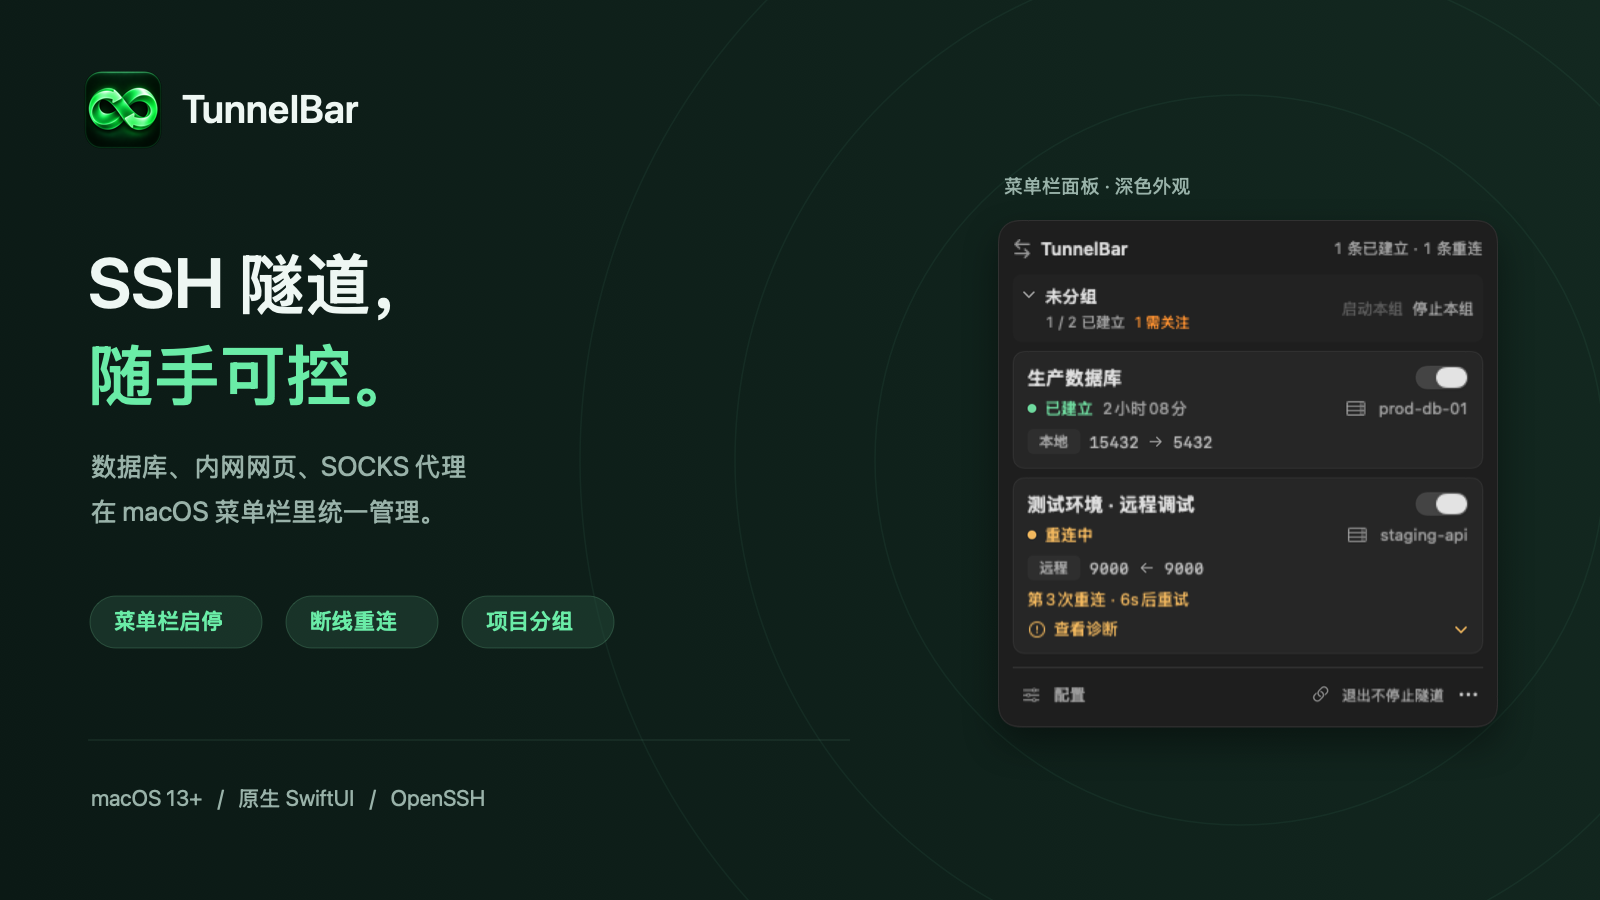
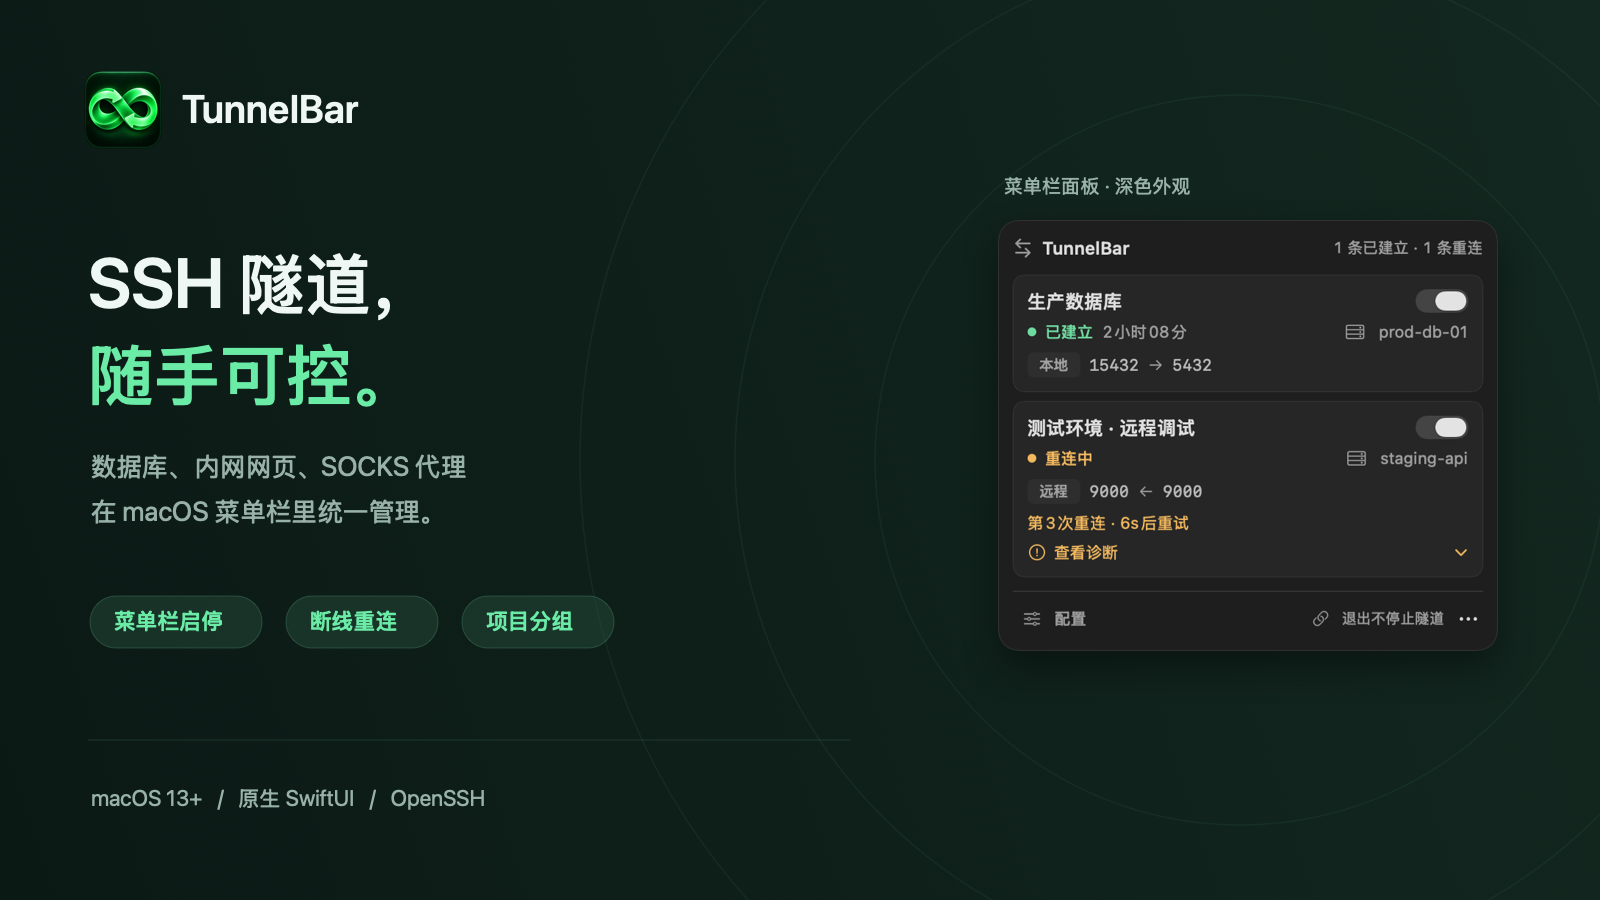
fix: 修正停止诊断并优化无分组展示
正常停止或取消重连后隐藏残留日志诊断；没有自建分组时平铺隧道，忽略历史折叠状态。增加 --no-autostart，让更新启动保留已有连接与停止状态，并同步回归测试、使用指南和首页截图。

diff --git a/Tests/RegressionTests.swift b/Tests/RegressionTests.swift
@@ -51,8 +51,8 @@ final class TestContext {
     var runDir: URL { url.deletingLastPathComponent().appendingPathComponent("run") }
     func pidURL(_ id: String = "probe") -> URL { runDir.appendingPathComponent("\(id).pid") }
 
-    func manager() -> TunnelManager {
-        let manager = TunnelManager(configURL: url, sshExecutable: executable)
+    func manager(autoStartOnLaunch: Bool = true) -> TunnelManager {
+        let manager = TunnelManager(configURL: url, sshExecutable: executable, autoStartOnLaunch: autoStartOnLaunch)
         managers.append(manager)
         pump(0.35)
         return manager
@@ -133,6 +133,8 @@ struct RegressionTests {
             return
         }
 
+        try manualStopDiagnostics(root: root, executable: executable)
+        try updateRelaunch(root: root, executable: executable)
         try configFailures(root: root, executable: executable)
         try migration(root: root, executable: executable)
         try privateStorage(root: root, executable: executable)
@@ -604,6 +606,71 @@ struct RegressionTests {
         print("PASS owning app exits without killing L/R/D tunnels; next startup restores the same processes")
     }
 
+    static func manualStopDiagnostics(root: URL, executable: URL) throws {
+        for adopt in [false, true] {
+            let context = try TestContext(root: root, executable: executable, name: "manual-stop-\(adopt)", allTypes: true)
+            defer { context.cleanup() }
+            let owner = context.manager()
+            for tunnel in context.config.tunnels { owner.start(tunnel.id) }
+            try eventually("L/R/D tunnels must establish before stopping") {
+                owner.statuses.allSatisfy { $0.state == .running }
+            }
+            let pids = try context.config.tunnels.map { try context.pid($0.id) }
+            if adopt { owner.prepareForAppExit() }
+            let manager = adopt ? context.manager() : owner
+            try expect(manager.statuses.allSatisfy { $0.state == .running }, "Adoption must retain established connections")
+
+            for tunnel in context.config.tunnels {
+                let log = context.runDir.appendingPathComponent("\(tunnel.id).log")
+                try expect(!SSHLogReader.tail(log).isEmpty, "Fixture must leave real connection diagnostics on disk")
+                manager.toggle(tunnel.id)
+                try expect(manager.statuses.first { $0.id == tunnel.id }?.state == .stopped && !manager.isOn(tunnel.id),
+                           "Turning off a tunnel must stop it")
+                try expect(manager.errorText(tunnel.id) == nil && manager.diagnosticText(tunnel.id) == nil,
+                           "Manually stopped tunnels must not expose normal SSH logs as an error")
+            }
+            try eventually("Manual stop must terminate every managed process") { pids.allSatisfy { kill($0, 0) != 0 } }
+            pump(0.3)
+            try expect(manager.statuses.allSatisfy { $0.state == .stopped && manager.diagnosticText($0.id) == nil },
+                       "Late exit callbacks must not restore diagnostics after manual stop")
+
+            manager.prepareForAppExit()
+            let relaunched = context.manager()
+            try expect(relaunched.statuses.allSatisfy { $0.state == .stopped && relaunched.diagnosticText($0.id) == nil },
+                       "Relaunch must not surface retained logs for stopped tunnels")
+        }
+        print("PASS manual stop hides retained diagnostics for owned/adopted L/R/D tunnels, including after relaunch")
+    }
+
+    static func updateRelaunch(root: URL, executable: URL) throws {
+        let context = try TestContext(root: root, executable: executable, name: "update-relaunch", autoStart: true, allTypes: true)
+        defer { context.cleanup() }
+        let originalConfig = try Data(contentsOf: context.url)
+        let owner = context.manager(autoStartOnLaunch: false)
+        try expect(owner.statuses.allSatisfy { $0.state == .stopped }, "Update launch must not start stopped tunnels")
+        owner.start("probe")
+        try eventually("The retained connection must establish") { owner.statuses[0].state == .running }
+        let pid = try context.pid()
+        owner.prepareForAppExit()
+
+        let updated = context.manager(autoStartOnLaunch: false)
+        let adoptedPID = try context.pid()
+        try expect(adoptedPID == pid && kill(pid, 0) == 0 && updated.statuses[0].state == .running,
+                   "Update launch must adopt the same live process")
+        try expect(updated.statuses.dropFirst().allSatisfy { $0.state == .stopped && !updated.isOn($0.id) },
+                   "Update launch must preserve stopped tunnels even when autoStart is enabled")
+        let retainedConfig = try Data(contentsOf: context.url)
+        try expect(retainedConfig == originalConfig && updated.current == context.config,
+                   "Skipping auto-start must not alter saved or in-memory settings")
+
+        updated.prepareForAppExit()
+        let normalLaunch = context.manager()
+        try eventually("The next normal launch must respect saved autoStart settings") {
+            normalLaunch.statuses.allSatisfy { $0.state == .running }
+        }
+        print("PASS update launch preserves running/stopped tunnels and config; normal relaunch still auto-starts")
+    }
+
     static func connectionStates(root: URL, executable: URL) throws {
         for mode in ["delayed", "remote-delayed", "auth", "network", "port", "ready-warning"] {
             let context = try TestContext(root: root, executable: executable, name: "state-\(mode)")
@@ -624,13 +691,23 @@ struct RegressionTests {
             } else if mode == "delayed" || mode == "remote-delayed" {
                 pump(0.35)
                 try expect(manager.statuses[0].state == .connecting, "Authentication/session entry must not bypass forwarding confirmation")
+                if mode == "remote-delayed" {
+                    try expect(manager.diagnosticText("probe")?.contains("Entering interactive session.") == true,
+                               "Pending remote confirmation must retain current connection diagnostics")
+                }
                 try eventually("Complete forwarding evidence must establish the tunnel") { manager.statuses[0].state == .running }
             } else if mode == "network" {
                 try eventually("Network failure must retry") { manager.statuses[0].state == .reconnecting }
                 try expect(manager.isOn("probe"), "Transient error must retain user intent")
+                try expect(manager.diagnosticText("probe")?.contains("Connection timed out") == true,
+                           "Automatic retries must retain the actual failure diagnostics")
+                manager.stop("probe")
+                try expect(manager.diagnosticText("probe") == nil, "Cancelling a retry must dismiss its diagnostics")
             } else {
                 try eventually("Actionable failure must pause retries") { manager.statuses[0].state == .needsAttention }
                 try expect(!manager.isOn("probe") && manager.errorText("probe") != nil, "Actionable errors need an explanation and no infinite retry")
+                try expect(manager.diagnosticText("probe") == manager.errorText("probe"),
+                           "Actionable failures must remain visible even though their switch is off")
                 pump(1.7)
                 try expect(!FileManager.default.fileExists(atPath: context.pidURL().path), "Actionable failure respawned without user action")
                 cfg.tunnels[0].extraArgs = []

diff --git a/Tools/PanelPreview.swift b/Tools/PanelPreview.swift
@@ -53,6 +53,10 @@ struct PanelPreview {
                                     error: "ssh: connect to host staging-api.example.net port 22: Connection timed out")
         let socks = TunnelPanelItem(id: "socks", name: "开发 SOCKS 代理", nodeName: "dev-box",
                                     forwards: [ForwardSpec(type: "D", port: "1080")], state: .stopped, isOn: false)
+        let stopped = TunnelPanelItem(id: "stopped", name: "远程开发访问", nodeName: "example",
+                                      forwards: [ForwardSpec(type: "R", port: "10022", host: "127.0.0.1", rport: "22")],
+                                      state: .stopped, isOn: false,
+                                      error: "debug1: Entering interactive session.\nKilled by signal 15.")
         let long = TunnelPanelItem(id: "long", name: "示例环境 · 数据库与应用服务转发",
                                    nodeName: "example-production-bastion-01",
                                    forwards: [
@@ -69,6 +73,8 @@ struct PanelPreview {
         try render("light-multiple", items: [database, retry, socks], scheme: .light, output: output)
         try render("dark-readme", items: [database, retry], scheme: .dark, output: output)
         try render("light-readme", items: [database, retry], scheme: .light, output: output)
+        try render("dark-manual-stop", items: [example, stopped], scheme: .dark, expanded: true, output: output)
+        try render("light-manual-stop", items: [example, stopped], scheme: .light, expanded: true, output: output)
         try render("light-empty", items: [], scheme: .light, output: output)
         try render("dark-error", items: [long], scheme: .dark, expanded: true, output: output)
         let connecting = TunnelPanelItem(id: "connecting", name: "数据库访问", nodeName: "example",
@@ -96,6 +102,12 @@ struct PanelPreview {
         let groupedItems = [projectDB, projectRetry, sharedSOCKS, example]
         for scheme in [ColorScheme.light, .dark] {
             let prefix = scheme == .light ? "light" : "dark"
+            try render("\(prefix)-flat-with-saved-collapse", items: [example, stopped], scheme: scheme,
+                       collapsed: ["ungrouped"], output: output)
+            try render("\(prefix)-single-group", items: [projectDB, example], scheme: scheme,
+                       groups: [groups[0]], output: output)
+            try render("\(prefix)-empty-group-with-ungrouped", items: [example, stopped], scheme: scheme,
+                       groups: [groups[0]], output: output)
             try render("\(prefix)-groups", items: groupedItems, scheme: scheme,
                        groups: groups, collapsed: ["group:project", "ungrouped"], output: output)
             try render("\(prefix)-groups-expanded", items: groupedItems, scheme: scheme, groups: groups, output: output)

diff --git a/Sources/TunnelManager.swift b/Sources/TunnelManager.swift
@@ -55,7 +55,8 @@ final class TunnelManager: ObservableObject {
 
     /// 可注入临时配置和模拟 SSH 程序，测试不接触用户隧道。
     init(configURL: URL = TunnelManager.configURL,
-         sshExecutable: URL = URL(fileURLWithPath: "/usr/bin/ssh")) {
+         sshExecutable: URL = URL(fileURLWithPath: "/usr/bin/ssh"),
+         autoStartOnLaunch: Bool = !CommandLine.arguments.contains("--no-autostart")) {
         configStore = ConfigStore(url: configURL)
         self.sshExecutable = sshExecutable
         loadConfig()
@@ -71,8 +72,11 @@ final class TunnelManager: ObservableObject {
                 self.objectWillChange.send()
             }
         }
-        for s in statuses where s.config.autoStart && !isOn(s.id) {
-            start(s.id)
+        // 更新应用时可用 --no-autostart 保留当前连接状态；仅影响本次启动，不修改配置。
+        if autoStartOnLaunch {
+            for s in statuses where s.config.autoStart && !isOn(s.id) {
+                start(s.id)
+            }
         }
     }
 
@@ -623,8 +627,10 @@ final class TunnelManager: ObservableObject {
     }
 
     func diagnosticText(_ id: String) -> String? {
+        // 已停止的隧道仍保留 SSH 日志；普通退出输出不应重新变成错误提示。
+        guard let state = statuses.first(where: { $0.id == id })?.state,
+              state != .running, state != .stopped else { return nil }
         if let error = lastError[id] { return error }
-        guard statuses.first(where: { $0.id == id })?.state != .running else { return nil }
         let text = SSHLogReader.tail(logFileURL(id))
         return text.isEmpty ? nil : text
     }

diff --git a/Sources/TunnelPanelView.swift b/Sources/TunnelPanelView.swift
@@ -142,8 +142,10 @@ struct TunnelPanelView: View {
         VStack(spacing: 10) {
             ForEach(TunnelPanelGroup.sections(groups: groups, items: items)) { group in
                 VStack(spacing: 6) {
-                    groupHeader(group)
-                    if !collapsedGroupIDs.contains(group.id) {
+                    if !groups.isEmpty {
+                        groupHeader(group)
+                    }
+                    if groups.isEmpty || !collapsedGroupIDs.contains(group.id) {
                         if group.items.isEmpty {
                             Text("还没有隧道，可在配置中添加")
                                 .font(.system(size: 11)).foregroundStyle(.secondary)
@@ -376,7 +378,7 @@ private struct TunnelCardView: View {
                     .fixedSize(horizontal: false, vertical: true)
             }
 
-            if item.state != .running, let error = item.error, !error.isEmpty {
+            if item.state != .running, item.state != .stopped, let error = item.error, !error.isEmpty {
                 Button {
                     showsError.toggle()
                 } label: {

diff --git a/README.md b/README.md
@@ -20,7 +20,7 @@
 
 - **开关即启停**：连接状态、运行时长、节点和转发端口都在卡片上。
 - **断线自动重连**：网络恢复后继续尝试；认证失败、端口占用等问题会显示处理建议。
-- **按项目分组**：整组启动或停止，公共数据库和代理可以独立管理。
+- **按需分组**：默认直接展示隧道；创建分组后可整组启停，公共数据库和代理可以独立管理。
 - **退出仍保持连接**：重启 TunnelBar 后接管已有 SSH 进程，恢复监控。
 
 ## 选一个模板，就能开始
